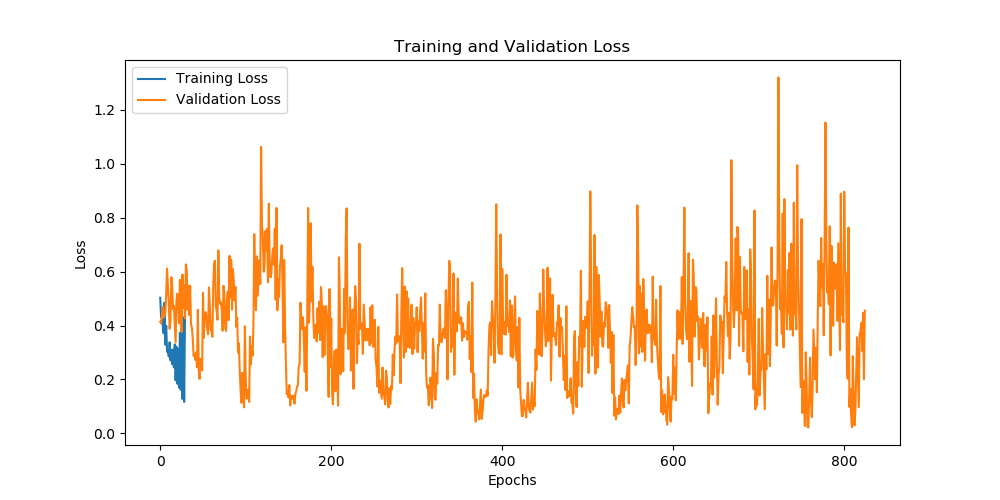
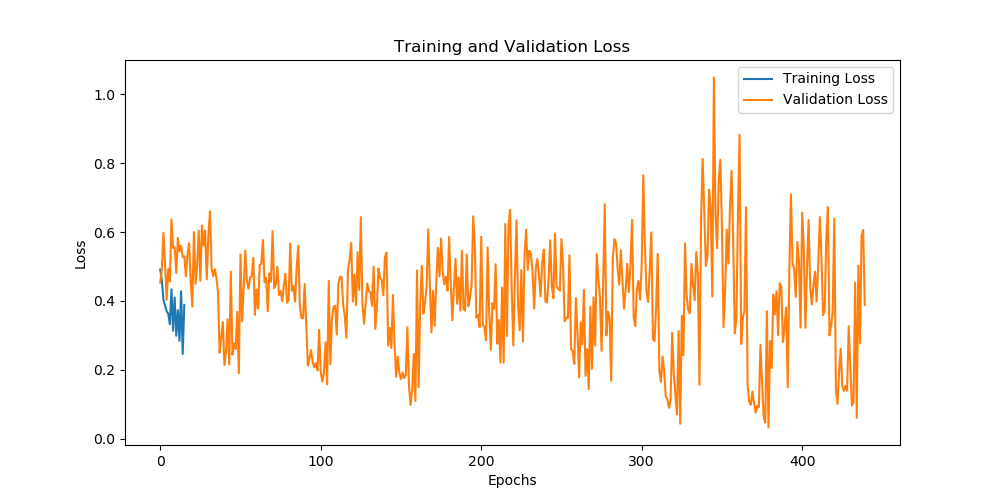
training changes

diff --git a/clip_linear_gridsearch.py b/clip_linear_gridsearch.py
@@ -36,7 +36,7 @@ print('Used device: ', device)
 model, preprocess = clip.load('ViT-B/16', device, jit=False)
 
 #state_dict = torch.load('../clip_fully_supervised/fs_best_model_11e_4p.pt', map_location=device)
-state_dict = torch.load('../fs_last_model_reduceplato_15e_4p.pt', map_location=device)
+state_dict = torch.load('../clip_fully_supervised/fs_best_model_5e_5p.pt', map_location=device)
 model.load_state_dict(state_dict)
 
 # Load the dataset
@@ -134,13 +134,13 @@ test_list_labels = [int(label) for label in test_data['label']]
 #class_names = ["a series picture of a factory with a shut down chimney", "a series picture of a smoking factory chimney"] #- 2
 #class_names = ["a photo of factories with clear sky above chimney", "a photo of factories emiting smoke from chimney"] #- 3
 #class_names = ["a photo of a factory with no smoke", "a photo of a smoking factory"] #- 4
-#class_names = ["a series picture of a factory with clear sky above chimney", "a series picture of a smoking factory"] #- 5
+class_names = ["a series picture of a factory with clear sky above chimney", "a series picture of a smoking factory"] #- 5
 #class_names = ["a series picture of a factory with no smoke", "a series picture of a smoking factory"] #- 6
 #class_names = ["a sequental photo of an industrial plant with clear sky above chimney, created from a video", "a sequental photo of an industrial plant emiting smoke from chimney, created from a video"]# - 7
 #class_names = ["a photo of a shut down chimney", "a photo of smoke chimney"] #-8
 #class_names = ["The industrial plant appears to be in a dormant state, with no smoke or emissions coming from its chimney. The air around the facility is clear and clean.","The smokestack of the factory is emitting dark or gray smoke against the sky. The emissions may be a result of industrial activities within the facility."] #-9
 #class_names = ["a photo of an industrial site with no visible signs of pollution", "a photo of a smokestack emitting smoke against the sky"] #-10
-class_names = ['no smoke', 'smoke']
+#class_names = ['no smoke', 'smoke']
 
 # Define input resolution
 input_resolution = (224, 224)

diff --git a/clip_fully_supervised.py b/clip_fully_supervised.py
@@ -175,9 +175,11 @@ if device == "cpu":
 num_epochs = 25
 
 # Prepare the optimizer - the lr, betas, eps and weight decay are from the CLIP paper
-optimizer = torch.optim.Adam(model.parameters(), lr=1e-7,betas=(0.9,0.98),eps=1e-6,weight_decay=0.2)
+optimizer = torch.optim.Adam(model.parameters(), lr=1e-5,betas=(0.9,0.98),eps=1e-6,weight_decay=0.01)
+#optimizer = torch.optim.Adam(model.parameters(), lr=1e-5,betas=(0.9,0.98),eps=1e-6,weight_decay=0.2)
 #Different tried schedulers:
-#scheduler = optim.lr_scheduler.CosineAnnealingLR(optimizer, len(train_dataloader)*num_epochs)
+#scheduler = torch.optim.lr_scheduler.CosineAnnealingLR(optimizer, len(train_dataloader)*num_epochs)
+scheduler = torch.optim.lr_scheduler.CosineAnnealingLR(optimizer, T_max=5)
 #scheduler = CosineAnnealingWarmRestarts(optimizer, T_0=10, T_mult=2)
 #scheduler = ReduceLROnPlateau(optimizer, mode='min', factor=0.5, patience=2, verbose=True)
 
@@ -374,14 +376,14 @@ for epoch in range(num_epochs):
     if te_loss < best_te_loss:
         best_te_loss = te_loss
         best_ep = epoch
-        torch.save(model.state_dict(), "../fs_best_model_12p.pt")
+        torch.save(model.state_dict(), "../fs_best_model_1p.pt")
         early_stopping_counter = 0
     else:
         early_stopping_counter += 1
 
     #save last model
     print(f"epoch {epoch+1}, tr_loss {tr_loss}, te_loss {te_loss}")
-    torch.save(model.state_dict(), "../fs_last_model_12p.pt")
+    torch.save(model.state_dict(), "../fs_last_model_1p.pt")
 
     if (early_stopping_counter >= early_stopping_patience) or (best_te_loss<=early_stopping_threshold):
         print(f"Early stopping after {epoch + 1} epochs.")
@@ -579,7 +581,7 @@ def visualize_features(features, labels, title):
     plt.scatter(reduced_features[:, 0], reduced_features[:, 1], c=labels, cmap='viridis', alpha=0.5)
     plt.colorbar()
     plt.title(title)
-    plt.savefig('clip_fullysupervised_features_5p.png')
+    plt.savefig('clip_fullysupervised_features_cosine.png')
     plt.close()
 
 visualize_features(test_features, test_labels, 'Test Features')

diff --git a/cnn_rnn.py b/cnn_rnn.py
@@ -66,7 +66,7 @@ class MobileNetV3Small_RNN(nn.Module):
             raise ValueError("Invalid RNN type. Choose 'LSTM' or 'GRU'.")
 
         #Dropout layer
-        #self.dropout = nn.Dropout(p=0.5)
+        self.dropout = nn.Dropout(p=0.5)
 
         #final classification layer - to get logits for the two classes
         self.fc = nn.Linear(256, num_classes)
@@ -89,7 +89,7 @@ class MobileNetV3Small_RNN(nn.Module):
         rnn_out, _ = self.rnn(features)
         
         #dropout layer
-        #rnn_out = self.dropout(rnn_out)
+        rnn_out = self.dropout(rnn_out)
 
         #batch, timesteps, output features
         #only select the last of the timesteps as it holds the information of the whole video
@@ -220,14 +220,14 @@ num_epochs = 50
 #optimizer = torch.optim.Adam(model.parameters(), lr=0.0005)
 #optimizer: third trainings:
 #optimizer = torch.optim.Adam(model.parameters(), lr=0.0005, weight_decay=1e-4)
-optimizer = torch.optim.Adam(model.parameters(), lr=0.0001)
+optimizer = torch.optim.Adam(model.parameters(), lr=0.0001, betas=(0.9,0.98),eps=1e-6,weight_decay=1e-4)
 loss = nn.CrossEntropyLoss()
 #second_option_scheduler:
 #scheduler = ReduceLROnPlateau(optimizer, mode='min', factor=0.1, patience=5, verbose=True)
 #third_option_scheduler:
-#scheduler = ReduceLROnPlateau(optimizer, mode='min', factor=0.1, patience=3, verbose=True)
+scheduler = torch.optim.lr_scheduler.CosineAnnealingLR(optimizer, T_max=5)
 #4. option:
-scheduler = ReduceLROnPlateau(optimizer, mode='min', factor=0.5, patience=3, verbose=True)
+#scheduler = ReduceLROnPlateau(optimizer, mode='min', factor=0.5, patience=3, verbose=True)
 #scheduler = optim.lr_scheduler.CosineAnnealingLR(optimizer, len(train_dataloader)*num_epochs)
 
 

diff --git a/ensemble_with_stacking.py b/ensemble_with_stacking.py
@@ -101,11 +101,11 @@ rnn_model.eval()
 
 
 clip_model, preprocess = clip.load('ViT-B/16', device, jit=False)
-state_dict = torch.load('../fs_last_model_11p_5e.pt', map_location=device)
+state_dict = torch.load('../clip_fully_supervised/fs_best_model_5e_5p.pt', map_location=device)
 clip_model.load_state_dict(state_dict)
 clip_model.eval()
 
-#logreg_model = joblib.load('../clip_lin/final_logreg_model_grid_11e_5p_last_reduceplato.sav')
+logreg_model = joblib.load('../clip_lin/final_logreg_model_last_5e5pbestmodel.sav')
 
 class ImageTitleDataset(Dataset):
     def __init__(self, list_video_path, list_labels, rnn_transform_image, clip_transform_image):
@@ -350,9 +350,9 @@ class CLIP_GLIN_MobileNetV3_RNN_Ensemble(nn.Module):
         return combined_data
 
 #simple clip model without lin layer:
-ensemble_model = CLIP_MobileNetV3_RNN_Ensemble(clip_model, rnn_model)
+#ensemble_model = CLIP_MobileNetV3_RNN_Ensemble(clip_model, rnn_model)
 #clip model with lin layer:
-#ensemble_model = CLIP_GLIN_MobileNetV3_RNN_Ensemble(clip_model, rnn_model,logreg_model)
+ensemble_model = CLIP_GLIN_MobileNetV3_RNN_Ensemble(clip_model, rnn_model,logreg_model)
 
 def get_features(model, dataloader):
     model.eval()

diff --git a/learning_rate_finder.py b/learning_rate_finder.py
@@ -161,10 +161,13 @@ criterion = nn.CrossEntropyLoss()
 def train_step(engine, batch):
     model.train()
     inputs, labels, true_label = batch
-    inputs, labels = inputs.to(device), true_label.to(device)
+    inputs = inputs.to(device)
     optimizer.zero_grad()
-    outputs, _ = model(inputs, clip.tokenize(class_names).to(device))
-    loss = criterion(outputs, labels)
+    text_inputs = clip.tokenize(class_names).to(device)
+    text_inputs = text_inputs.squeeze(dim = 1)
+    outputs, _ = model(inputs, text_inputs)
+    ground_truth = torch.tensor(true_label, dtype=torch.long, device=device)
+    loss = criterion(outputs, ground_truth)
     loss.backward()
     optimizer.step()
     return loss.item()
@@ -174,7 +177,7 @@ trainer = Engine(train_step)
 lr_finder = FastaiLRFinder()
 to_save = {"model": model, "optimizer": optimizer}
 
-with lr_finder.attach(trainer, to_save=to_save) as trainer_with_lr_finder:
+with lr_finder.attach(trainer, to_save=to_save, start_lr=1e-8, end_lr=10.0) as trainer_with_lr_finder:
     trainer_with_lr_finder.run(train_dataloader)
 
 # Get lr_finder results

diff --git a/ensemble_model_average_logit.py b/ensemble_model_average_logit.py
@@ -90,8 +90,8 @@ class MobileNetV3Small_RNN(nn.Module):
         
         return logits
     
-rnn_model = MobileNetV3Small_RNN(num_classes=2, rnn_type="GRU")
-state_dict = torch.load('../cnn_rnn/light_cnn_last_model_gru_11e.pt', map_location=device)
+rnn_model = MobileNetV3Small_RNN(num_classes=2, rnn_type="LSTM")
+state_dict = torch.load('../cnn_rnn/light_cnn_last_lstm_7e_drop_lr5e-05.pt', map_location=device)
 state_dict = {k.partition('module.')[2] if k.startswith('module.') else k: v for k, v in state_dict.items()}
 rnn_model.load_state_dict(state_dict)
 rnn_model = rnn_model.to(device)
@@ -301,8 +301,8 @@ class CLIP_MobileNetV3_RNN_Ensemble(nn.Module):
         rnn_logits = self.mobilenet_rnn_model(frames)
 
         #combine the logits
-        #combined_logits = ( w_clip * logits_per_image + w_cnn * rnn_logits)/2
-        combined_logits = ( w_clip * logits_per_image * w_cnn * rnn_logits)
+        combined_logits = ( w_clip * logits_per_image + w_cnn * rnn_logits)/2
+        #combined_logits = ( w_clip * logits_per_image * w_cnn * rnn_logits)
 
         return combined_logits
 

diff --git a/clip_few_shot.py b/clip_few_shot.py
@@ -160,8 +160,8 @@ test_dataset = ImageTitleDataset(test_list_video_path, test_list_labels, class_n
 print('Datasets created')
 
 #Create dataloader fot training, validation and testig
-
-train_dataloader = DataLoader(train_dataset, batch_size=4, shuffle=True)
+#for the trainings, the batch size was 4
+train_dataloader = DataLoader(train_dataset, batch_size=8, shuffle=True)
 test_dataloader = DataLoader(test_dataset, batch_size=8, shuffle=False)
 
 print('Dataloaders created')
@@ -182,7 +182,7 @@ num_epochs = 1
 
 # Prepare the optimizer - the lr, betas, eps and weight decay are from the CLIP paper
 #optimizer = torch.optim.Adam(model.parameters(), lr=1e-5,betas=(0.9,0.98),eps=1e-6,weight_decay=0.2)
-optimizer = torch.optim.Adam(model.parameters(), lr=5e-5,betas=(0.9,0.98),eps=1e-6,weight_decay=0.2)
+optimizer = torch.optim.Adam(model.parameters(), lr=5e-6,betas=(0.9,0.98),eps=1e-6,weight_decay=0.001)
 #scheduler = optim.lr_scheduler.CosineAnnealingLR(optimizer, len(train_dataloader)*num_epochs)
 
 # Specify the loss functions - for images and for texts
